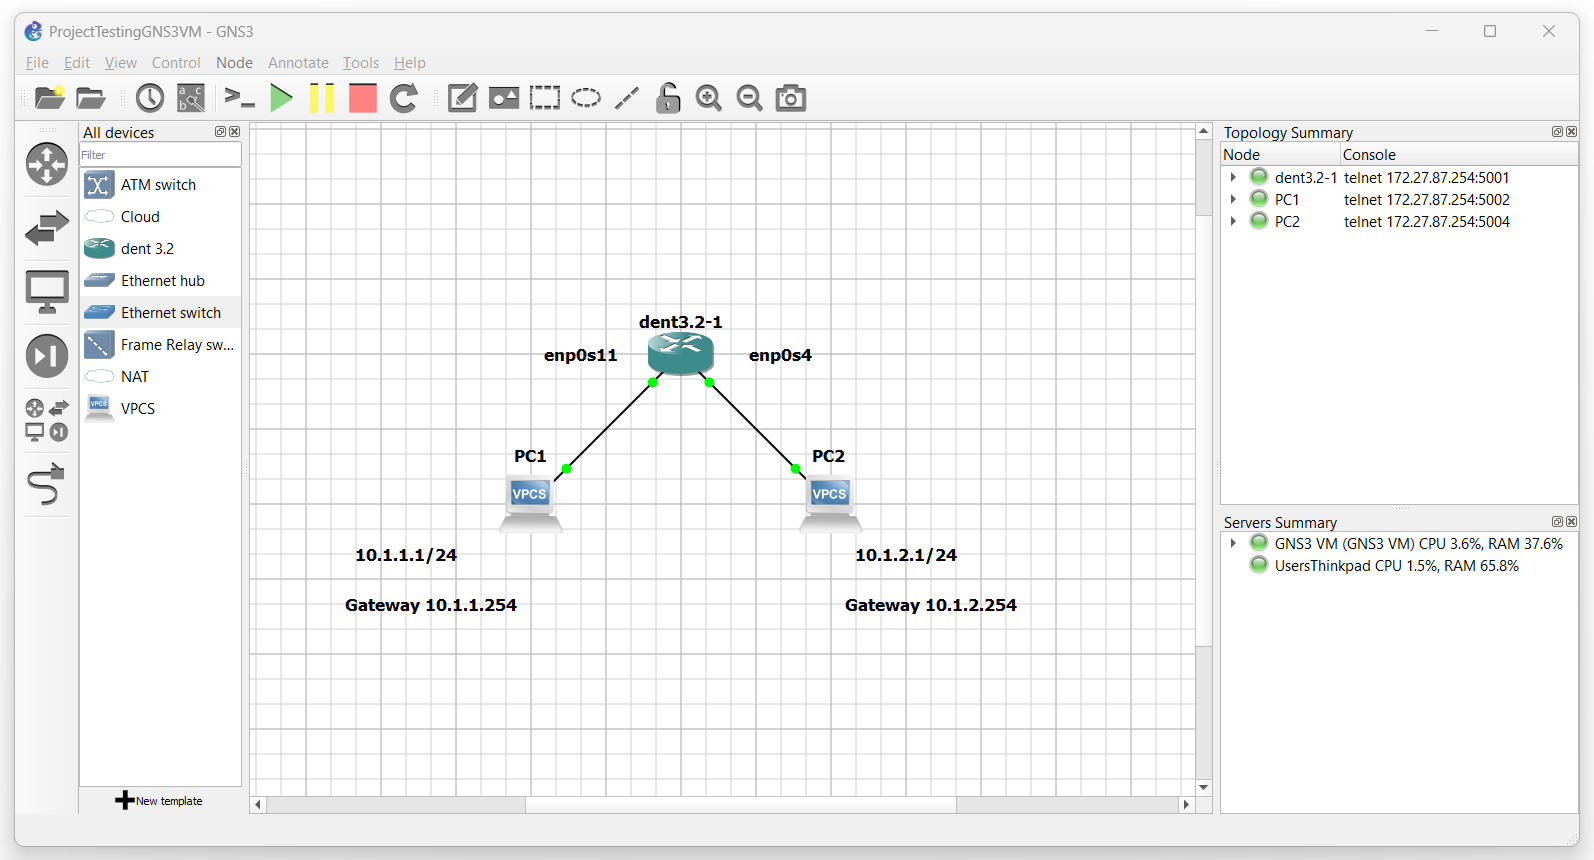
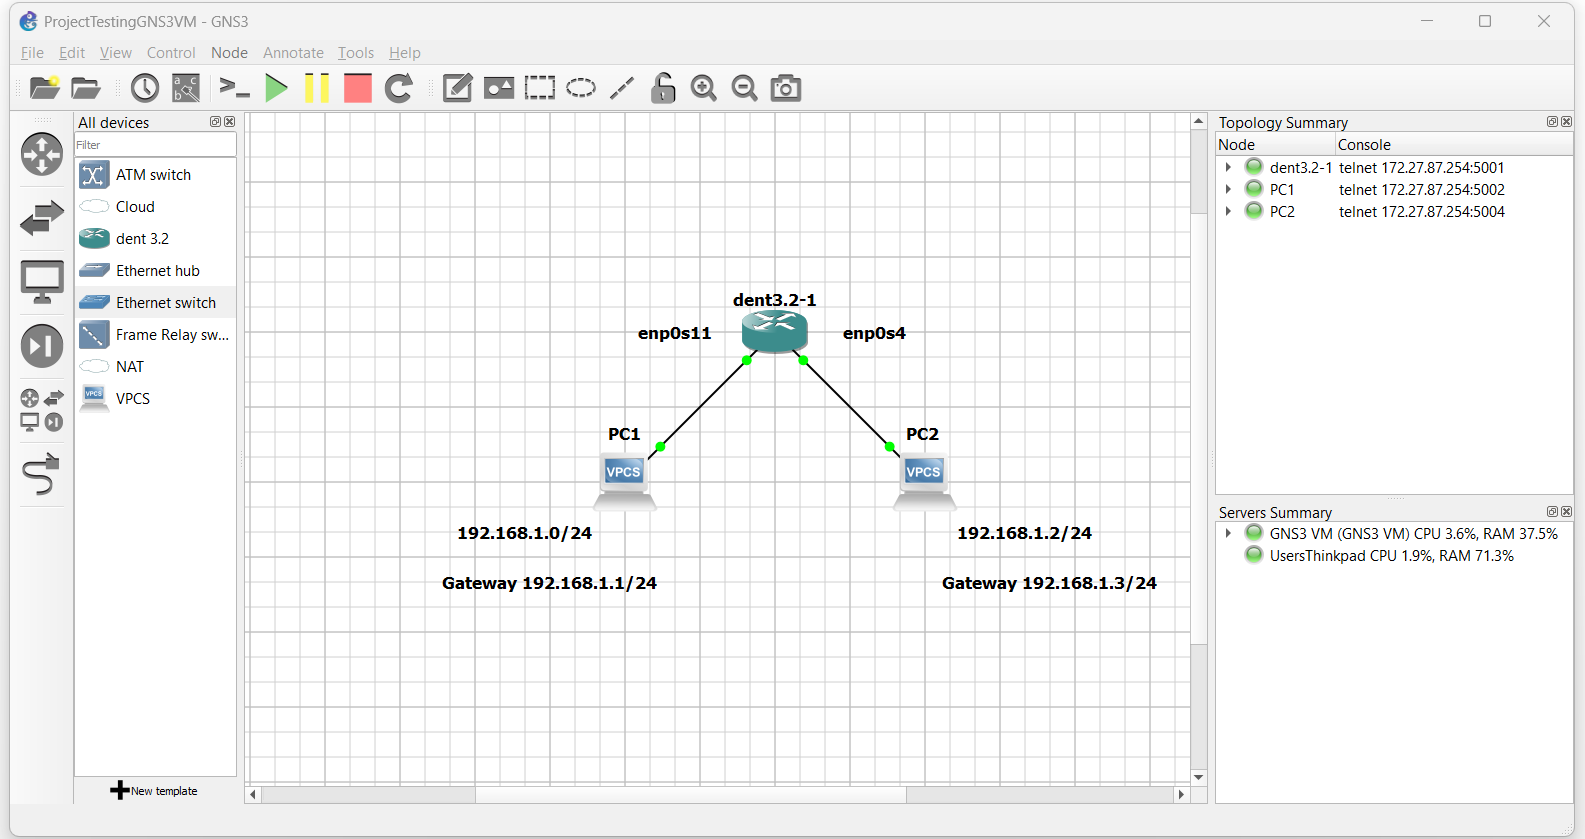
Changed subnet values

Changed region(s): [[0.0, 0.0, 1.0, 1.0], [0.5256, 0.2789, 0.5874, 0.3409], [0.9274, 0.0, 0.9893, 0.031]]

diff --git a/BasicNetworkConfiguration.md b/BasicNetworkConfiguration.md
@@ -5,7 +5,7 @@ nav_order: 3
 
 # Getting Started With Network Configuration
 
-To familiarize yourself with the DENT NOS we designed a 
+To familiarize yourself with the DENT NOS we designed a
 simple tutorial for you. This tutorial will quickly cover interfaces
 and how to configure a simple network.
 
@@ -14,14 +14,14 @@ and how to configure a simple network.
 
 ## **Interfaces**
 A network interface is the point of connection between a computer
-and a network. As a system administrator you may want to know the 
+and a network. As a system administrator you may want to know the
 available network interfaces in your system to manage network
 configurations.
 
 
 ### Links
-The term Link is another name for a network interface. Once you start your DENT NOS 
-and login, you may display the available links associated with your machine using 
+The term Link is another name for a network interface. Once you start your DENT NOS
+and login, you may display the available links associated with your machine using
 the following command:
 
 ```
@@ -38,7 +38,7 @@ $ ip link show
   ...
 ```
 
-Interfaces can be managed using iproute2 or any netlink supported utility. 
+Interfaces can be managed using iproute2 or any netlink supported utility.
 
 *Note all the interfaces listed above are ``down``. To utilize a link it must be ``up``.*
 
@@ -61,7 +61,7 @@ $ ip link set dev enp0s5 up
 
 In the output above notice that the interface ``enp0s4`` was inuse while ``enp0s5`` was not.
 
-Rerunning ``ip link show`` will now depict ``enp0s4`` as ``up`` 
+Rerunning ``ip link show`` will now depict ``enp0s4`` as ``up``
 while ``enp0s5`` will remain unused:
 
 ```
@@ -155,14 +155,14 @@ this example.
 
 ![ImageOneOfSimpleConfigurationExample](./Images/ImagesForBasicNetworkConfiguration/ImageOneOfSimpleConfiguraitonExample.png)
 
-Assume PC1 has an IP address of 10.1.1.1/24 and an associated gateway 
-10.1.1.254. PC2 will have an IP address of 10.1.2.1/24 and an associated gateway
-10.1.2.254. Both PCs are connected to a switch running the DENT NOS.
+Assume PC1 has an IP address of 192.168.1.1/24 and an associated gateway
+192.168.1.2/24. PC2 will have an IP address of 192.168.1.3/24 and an associated gateway
+192.168.1.4/24. Both PCs are connected to a switch running the DENT NOS.
 
 ### Enable Interfaces
-The ports which these devices are connected to the switch with will be 
+The ports which these devices are connected to the switch with will be
 represented by the interfaces on the switch. When logged into the switch
-use ``ip link show`` to view a list of all available interfaces. 
+use ``ip link show`` to view a list of all available interfaces.
 
 
 Ex.
@@ -178,7 +178,7 @@ $ ip link show
 ...
 ```
 
-*Note by default all interfaces will be down. You must enable all interfaces that are 
+*Note by default all interfaces will be down. You must enable all interfaces that are
 associated with a port that is in use.*
 
 To enable an interface, use ``ip link set dev ${interface name} up``.
@@ -213,20 +213,20 @@ Next add the gateway addresses to your switch on the appropriate interface.
 To add the gateway addresses use the following command
 ``ip address add ${address}/${mask} dev ${interface name}``.
 
-In the diagram above PC1 is connected to the port Ethernet7 which corresponds to 
-the interface ``enp0s11`` of the switch. PC1 will also use the gateway address 
-10.1.1.254. On the switch run the following command to add the gateway address
+In the diagram above PC1 is connected to the port Ethernet7 which corresponds to
+the interface ``enp0s11`` of the switch. PC1 will also use the gateway address
+192.168.1.2/24. On the switch run the following command to add the gateway address
 for PC1 to the switch:
 
-```ip address add 10.1.1.254 dev enp0s11```
+```ip address add 192.168.1.2/24 dev enp0s11```
 
 
 In the diagram above PC2 is connected to the port Ethernet0 which corresponds to
 the interface ``enp0s4`` of the switch. PC2 will also use the gateway address
-10.1.2.254. On the switch run the following command to add the gateway address
+192.168.1.4/24. On the switch run the following command to add the gateway address
 for PC2 to the switch:
 
-```ip address add 10.1.2.254 dev enp0s4```
+```ip address add 192.168.1.4/24 dev enp0s4```
 
 
 You should now be able to ping your PCs to your switch and your switch to your PCs.
@@ -242,7 +242,7 @@ To enable Packet forwarding check on the router to make sure the value
 of the file ``ip_forward`` is "1". To view the contents of the file execute the
 following command:
 
-``cat /proc/sys/net/ipv4/ip_forward`` 
+``cat /proc/sys/net/ipv4/ip_forward``
 
 If the file content is "0", packet forwarding is disabled.
 To enable packet forwarding the content of the file must be "1".
@@ -252,5 +252,5 @@ the value of '1':
 
 ``sudo sh -c 'echo 1 > /proc/sys/net/ipv4/ip_forward' ``
 
-Congratulations! 
+Congratulations!
 You should now be able to ping PC1 and PC2 through your router.
